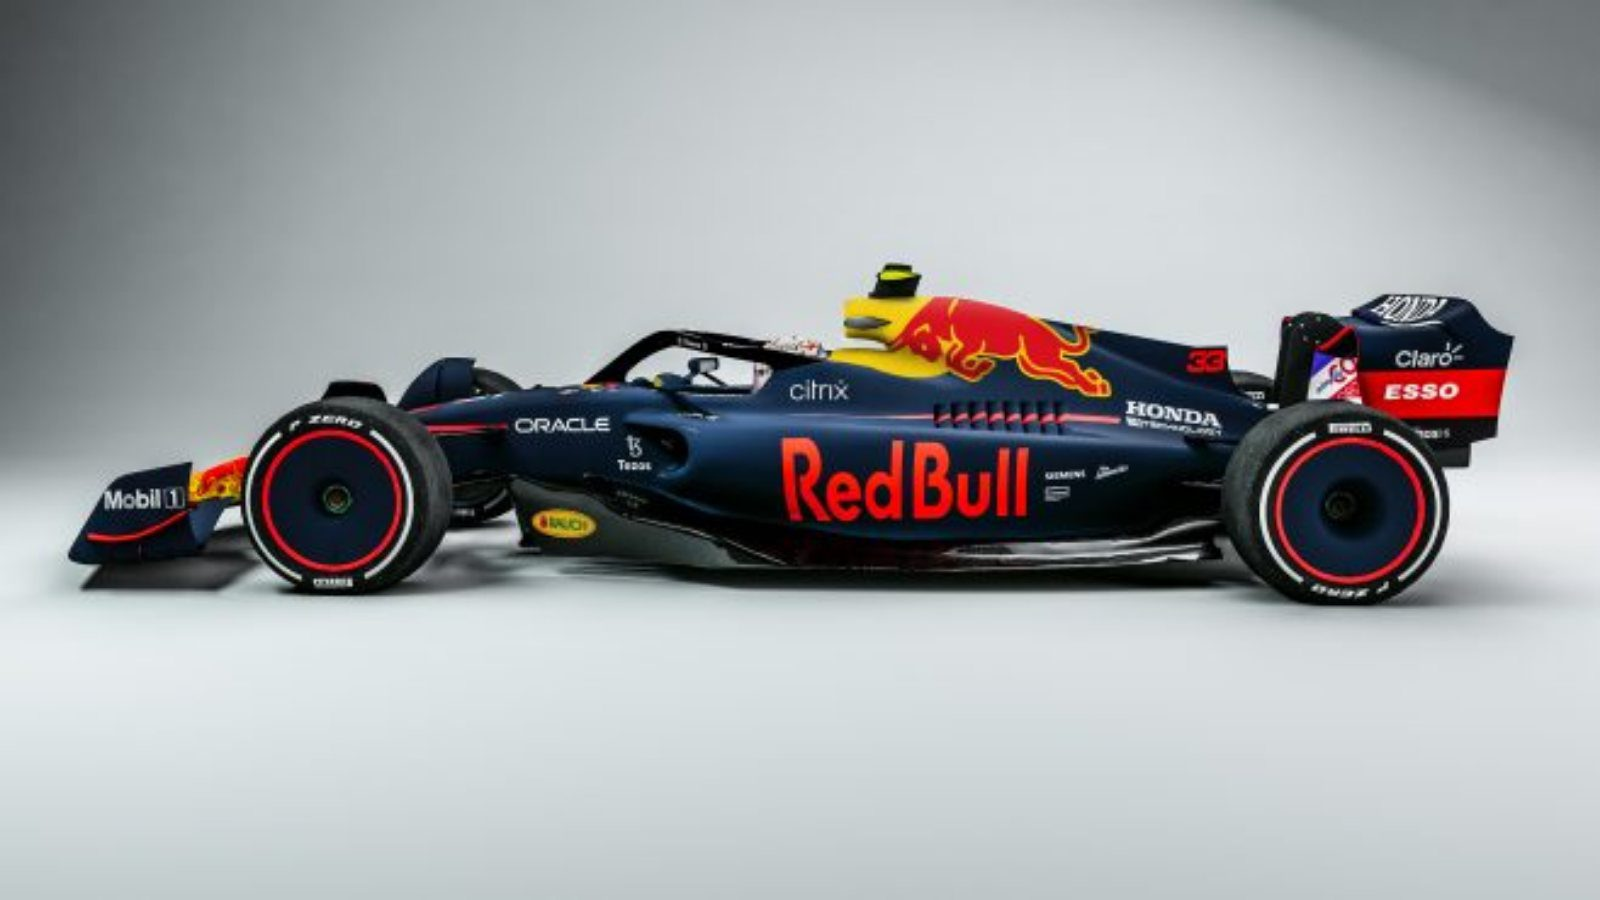
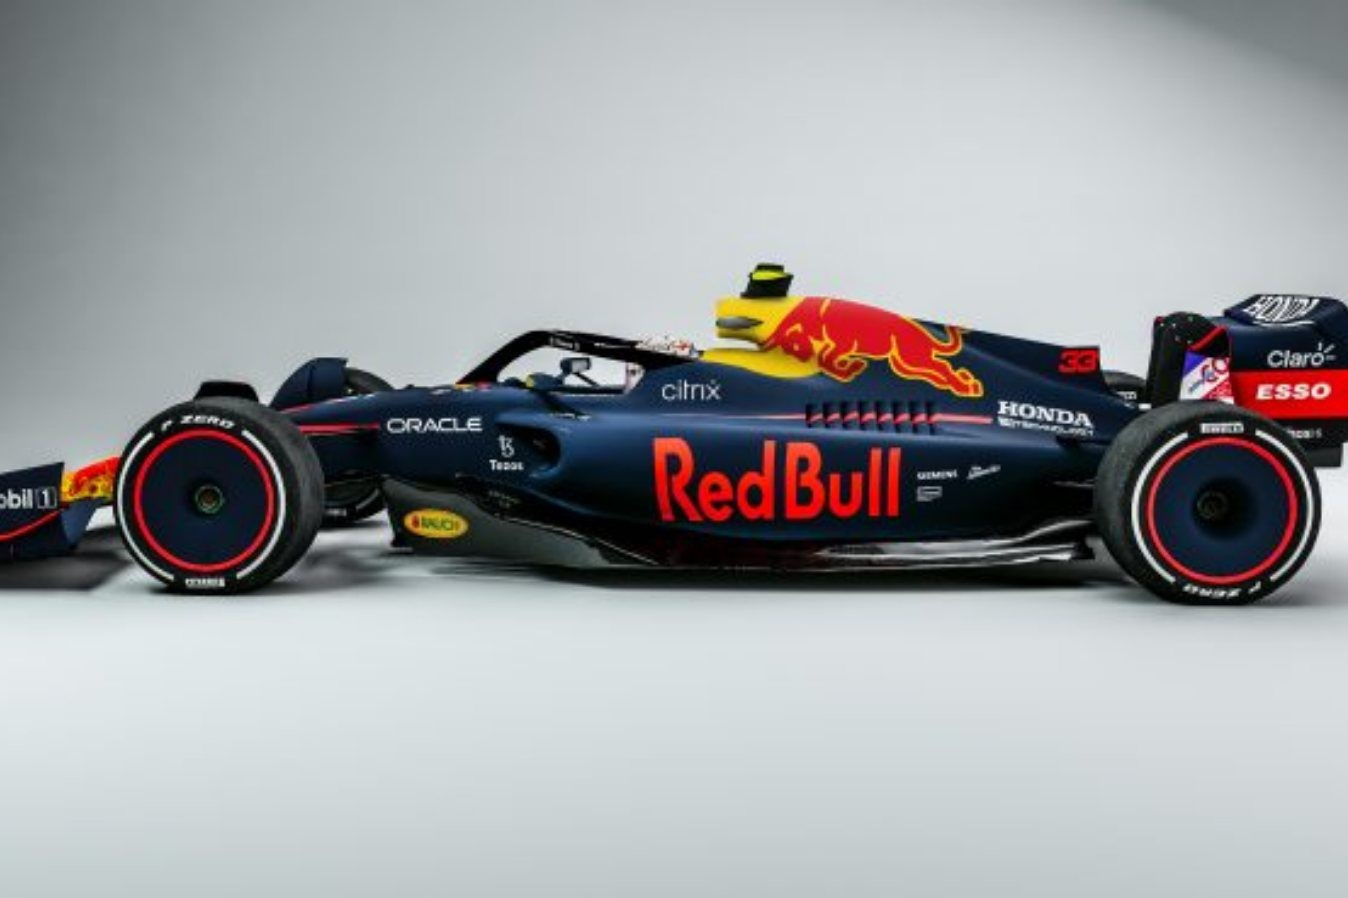
slides finish

Changed region(s): [[0.0, 0.0, 1.0, 0.7171]]

diff --git a/index.html b/index.html
@@ -17,8 +17,8 @@
     <!--Página principal-->
     <div id="main">
         <h1>Historia de l'equip</h1>
-        <p><a href="https://youtu.be/Vv7lGB1WQtw">'The Batman'</a> Els orígens de l'equip es remunten a l'escuderia creada per Jackie Stewart, Stewart Grand Prix, que va disputar les seves primeres curses en l'any 1997. L'equip va ser comprat per Ford Motor
-            Company i va córrer sota el nom de Jaguar Racing durant la temporada 2000 de Fórmula 1. Malgrat la joventut de l'equip en comparació amb altres constructors com Ferrari i McLaren, es va considerar un inici bastant reeixit, amb una carrera
+        <p><a href="https://www.redbullracing.com/int-en">'Red bull'</a> Els orígens de l'equip es remunten a l'escuderia creada per Jackie Stewart, Stewart Grand Prix, que va disputar les seves primeres curses en l'any 1997. L'equip va ser comprat per Ford
+            Motor Company i va córrer sota el nom de Jaguar Racing durant la temporada 2000 de Fórmula 1. Malgrat la joventut de l'equip en comparació amb altres constructors com Ferrari i McLaren, es va considerar un inici bastant reeixit, amb una carrera
             guanyada la Temporada 1999 de Fórmula 1. Arran dels decebedors resultats obtinguts per l'equip, la companyia Ford va anunciar el seu retir després de la temporada 2004 de Fórmula 1. L'empresa Red Bull ja havia estat present a la Formula 1
             anteriorment com a patrocinadora de Sauber F1 Team entre 1995 i 2001.
         </p>
@@ -43,21 +43,23 @@
     <div class="slideshow-container">
 
         <div class="mySlides fade">
-            <div class="numbertext">1 / 3</div>
+            <div class="numbertext">1 / 4</div>
             <img class="img-slides" src="./img/RB18-PerfilIzquierdo.jpg" style="width:100%">
-            <div class="text">Caption Text</div>
         </div>
 
         <div class="mySlides fade">
-            <div class="numbertext">2 / 3</div>
+            <div class="numbertext">2 / 4</div>
             <img class="img-slides" src="./img/f1-redbull.png" style="width:100%">
-            <div class="text">Caption Two</div>
         </div>
 
         <div class="mySlides fade">
-            <div class="numbertext">3 / 3</div>
-            <img class="img-slides" src="./img/RB18-PerfilDerecho.jpg" style="width:50%">
-            <div class="text">Caption Three</div>
+            <div class="numbertext">3 / 4</div>
+            <img class="img-slides" src="./img/RB18-PerfilDerecho.jpg" style="width:100%">
+        </div>
+
+        <div class="mySlides fade">
+            <div class="numbertext">4 / 4</div>
+            <img class="img-slides" src="./img/RB18-PerfilDetras.jpg" style="width:100%">
         </div>
 
         <a class="prev" onclick="plusSlides(-1)">&#10094;</a>
@@ -70,6 +72,7 @@
         <span class="dot" onclick="currentSlide(1)"></span>
         <span class="dot" onclick="currentSlide(2)"></span>
         <span class="dot" onclick="currentSlide(3)"></span>
+        <span class="dot" onclick="currentSlide(4)"></span>
     </div>
 
     <script>

diff --git a/css/style.css b/css/style.css
@@ -219,3 +219,14 @@ a {
         height: 200px;
     }
 }
+
+@media only screen and (max-width: 800px) {
+    .prev,
+    .next,
+    .text {
+        font-size: 11px
+    }
+    .mySlides {
+        width: 100%;
+    }
+}
